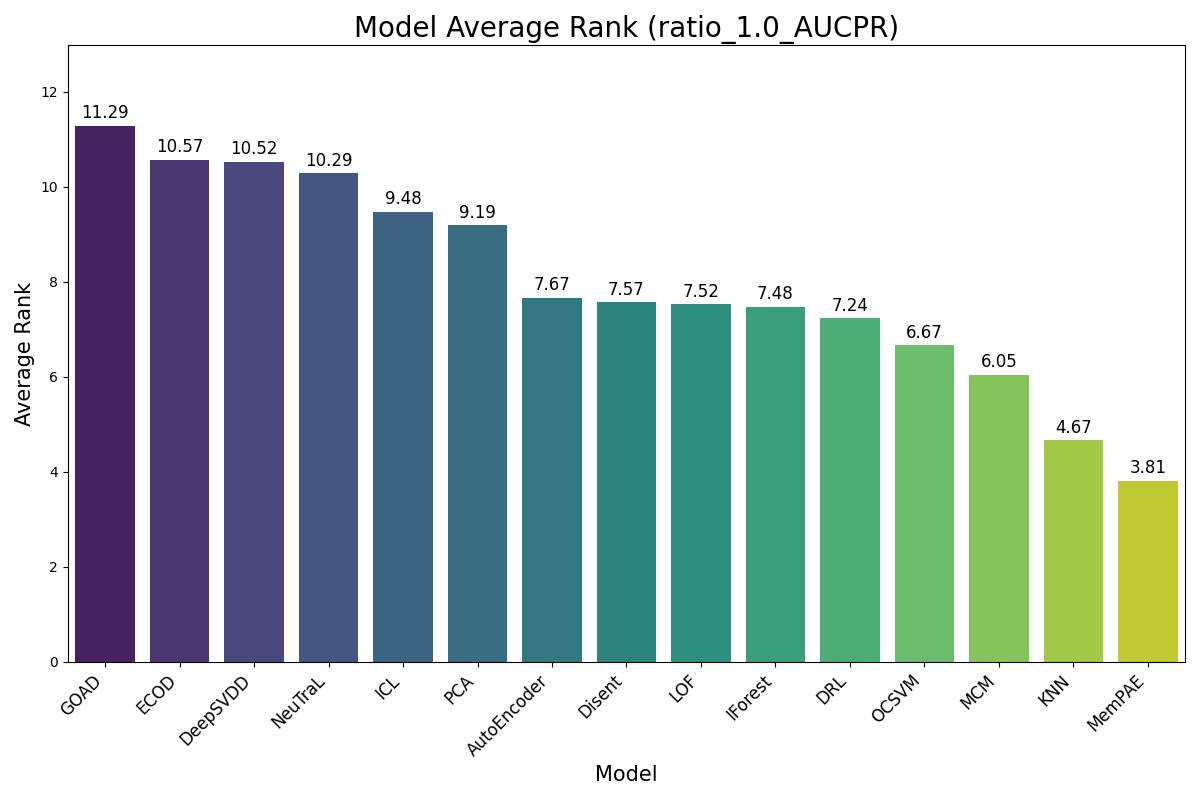
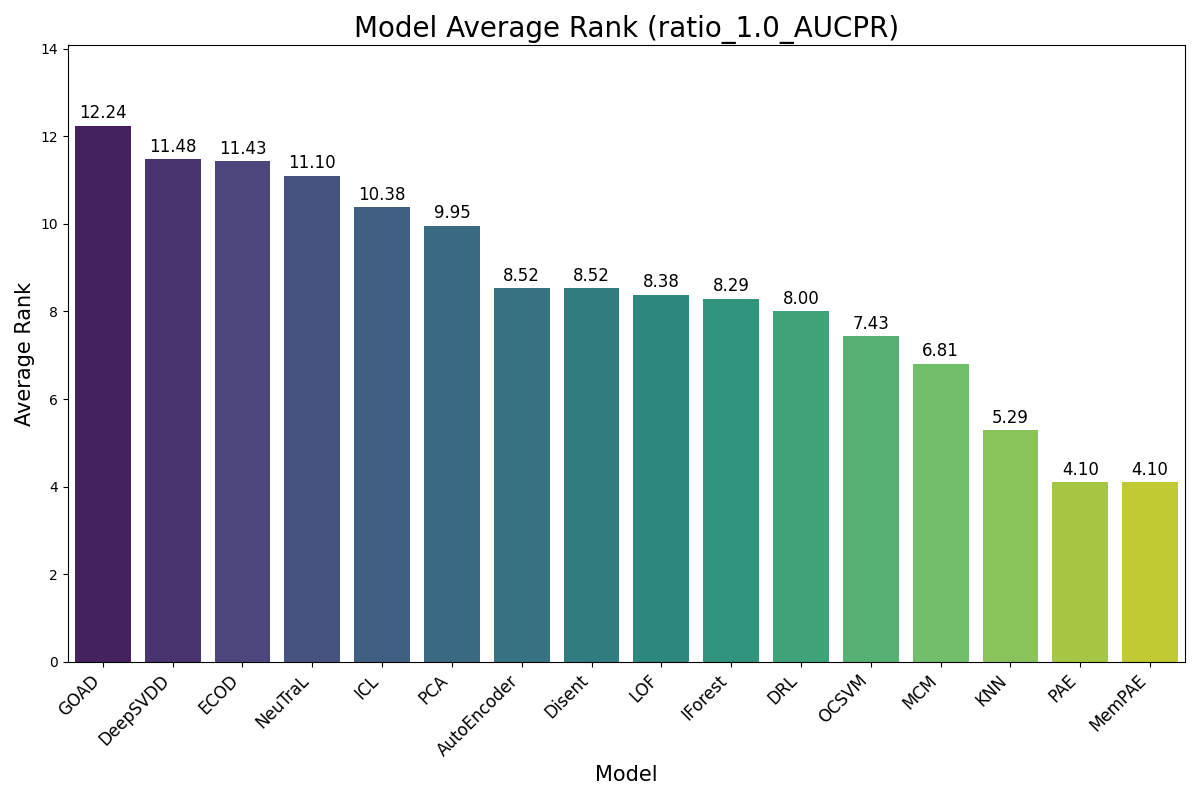
temp

diff --git a/summary.py b/summary.py
@@ -323,7 +323,7 @@ def render(
         df_mean.drop([row1_name, row2_name], inplace=True)
         df_std.drop([row1_name, row2_name], inplace=True)
 
-    df_mean.loc['MemPAE-ws-cross_attn-rin-pos_query+token-L2-d64-lr0.001', 'census'] = 0.2474
+    # df_mean.loc['MemPAE-ws-cross_attn-rin-pos_query+token-L2-d64-lr0.001', 'census'] = 0.2474
     df_mean.loc[:, 'AVG_AUC'] = df_mean.mean(axis=1, numeric_only=True)
     df_std.loc[:, 'AVG_AUC']  = df_std.mean(axis=1, numeric_only=True)
 
@@ -452,13 +452,13 @@ def main(args):
 
     my_models = [
         ##################################################################################
-        # 'PAE-ws-pos_query+token-d64-lr0.001', # Final architecture for PAE
+        'PAE-ws-pos_query+token-d64-lr0.001', # Final architecture for PAE
         # 'PAE-ws-d64-lr0.001', # Final architecture for PAE
         # 'PAE-L4-d64-lr0.001', # Final architecture for PAE
         # 'PAE-pos_query+token-d64-lr0.001', # Final architecture for PAE
         ##################################################################################
         # MemPAE with small memory Ablation
-        # 'MemPAE-ws-pos_query+token-d64-lr0.001-t0.1', # this is final
+        'MemPAE-ws-pos_query+token-d64-lr0.001-t0.1', # this is final
         # 'MemPAE-pos_query+token-L4-d64-lr0.001-t0.1',
         # 'MemPAE-ws-d64-lr0.001-t0.1', # tmux 0
         # 'MemPAE-d64-lr0.001-t0.1', # tmux 1
@@ -467,10 +467,8 @@ def main(args):
         # 'MemPAE-ws-cross_attn-rin-pos_query+token-L4-d64-lr0.001', # possible
         # 'MemPAE-ws-cross_attn-rin-pos_query+token-L3-d64-lr0.001', # possible
         # 'MemPAE-ws-cross_attn-rin-L4-d64-lr0.001',
-        
-        'MemPAE-ws-cross_attn-rin-pos_query+token-L2-d64-lr0.001', # possible 
+        # 'MemPAE-ws-cross_attn-rin-pos_query+token-L2-d64-lr0.001', # possible 
         # 'MemPAE-ws-cross_attn-rin-pos_query+token-large_mem-L2-d64-lr0.001',
-        
         
         # 'MemPAE-ws-cross_attn-rin-pos_query+token-L3-d64-lr0.001', # possible
         # 'MemPAE-ws-cross_attn-rin-pos_query+token-L4-d64-lr0.001', # possible
